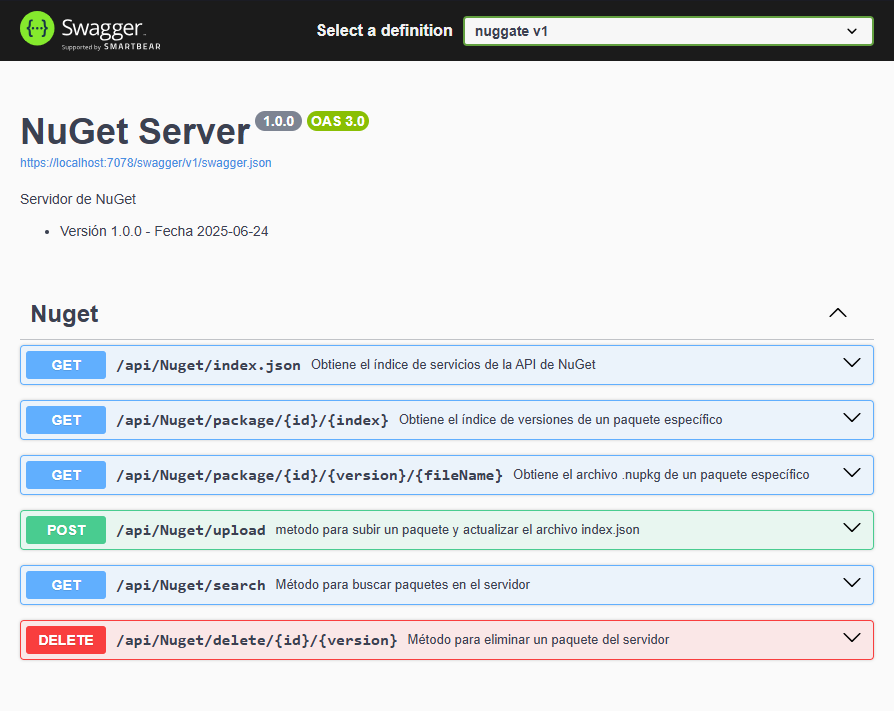
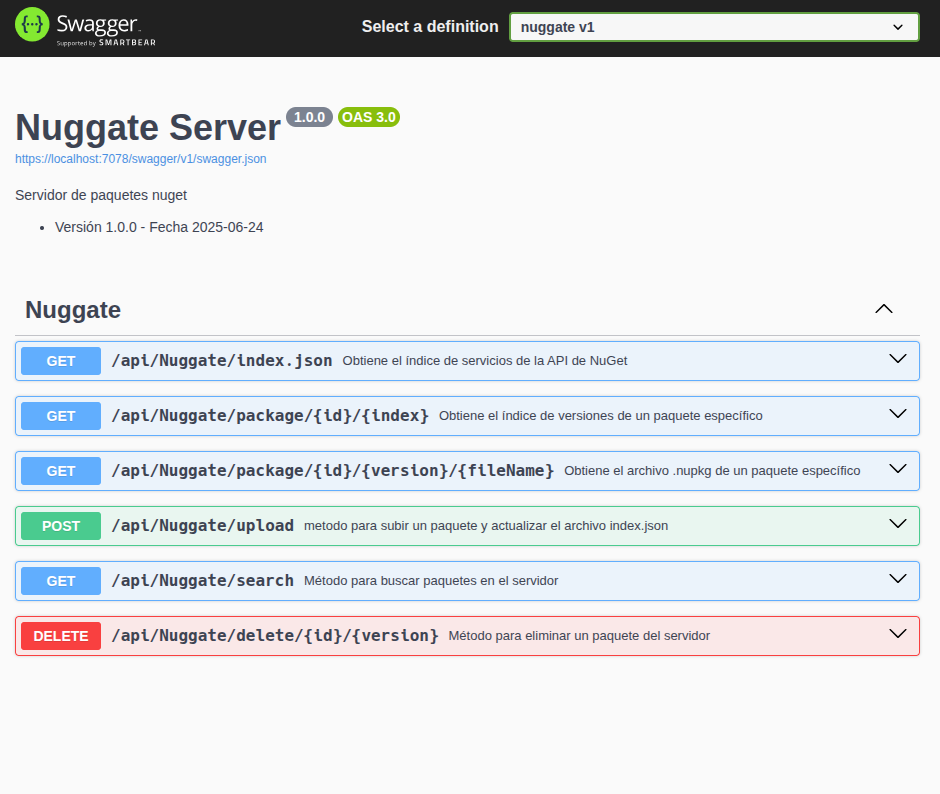
fea: modificacion del nombre de controller

diff --git a/nuggate/Controllers/NuggateController.cs b/nuggate/Controllers/NuggateController.cs
@@ -9,7 +9,7 @@ namespace nuggate.Controllers;
 /// </summary>
 [ApiController]
 [Route("api/[controller]")]
-public class NugetController : ControllerBase
+public class NuggateController : ControllerBase
 {
     private readonly string _packagePath = Path.Combine(Directory.GetCurrentDirectory(), "Packages");
 
@@ -24,9 +24,9 @@ public class NugetController : ControllerBase
     public IActionResult GetServiceIndex()
     {
         var json = $"{{ \"version\": \"3.0.0\", \"resources\": [";
-        json += $"{{ \"@id\": \"{Request.Scheme}://{Request.Host}/api/nuget/package/\", \"@type\": \"PackageBaseAddress/3.0.0\" }},";
-        json += $"{{ \"@id\": \"{Request.Scheme}://{Request.Host}/api/nuget/search\", \"@type\": \"SearchQueryService/3.0.0\" }},";
-        json += $"{{ \"@id\": \"{Request.Scheme}://{Request.Host}/api/nuget/upload\", \"@type\": \"PackagePublish/2.0.0\" }}";
+        json += $"{{ \"@id\": \"{Request.Scheme}://{Request.Host}/api/nuggate/package/\", \"@type\": \"PackageBaseAddress/3.0.0\" }},";
+        json += $"{{ \"@id\": \"{Request.Scheme}://{Request.Host}/api/nuggate/search\", \"@type\": \"SearchQueryService/3.0.0\" }},";
+        json += $"{{ \"@id\": \"{Request.Scheme}://{Request.Host}/api/nuggate/upload\", \"@type\": \"PackagePublish/2.0.0\" }}";
         json += "]}";
 
         return Content(json, "application/json");
